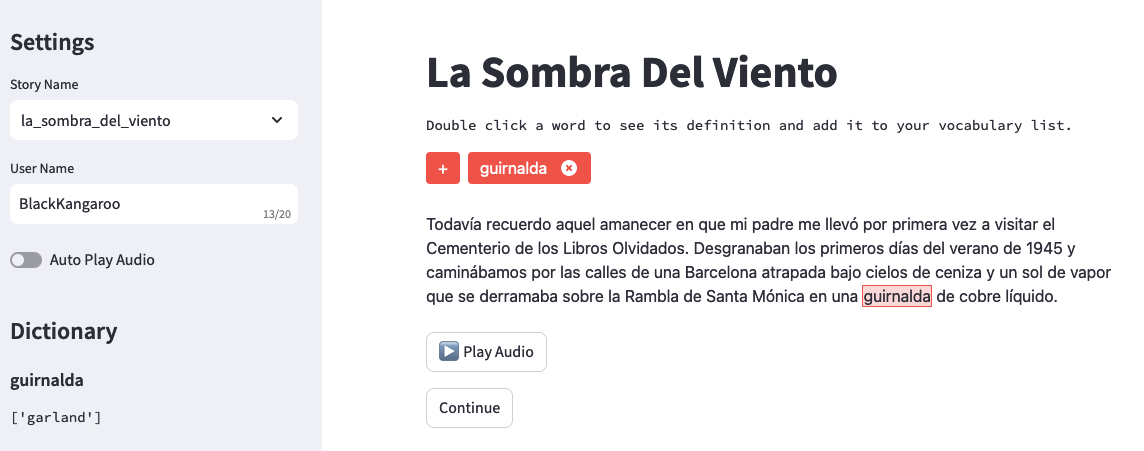
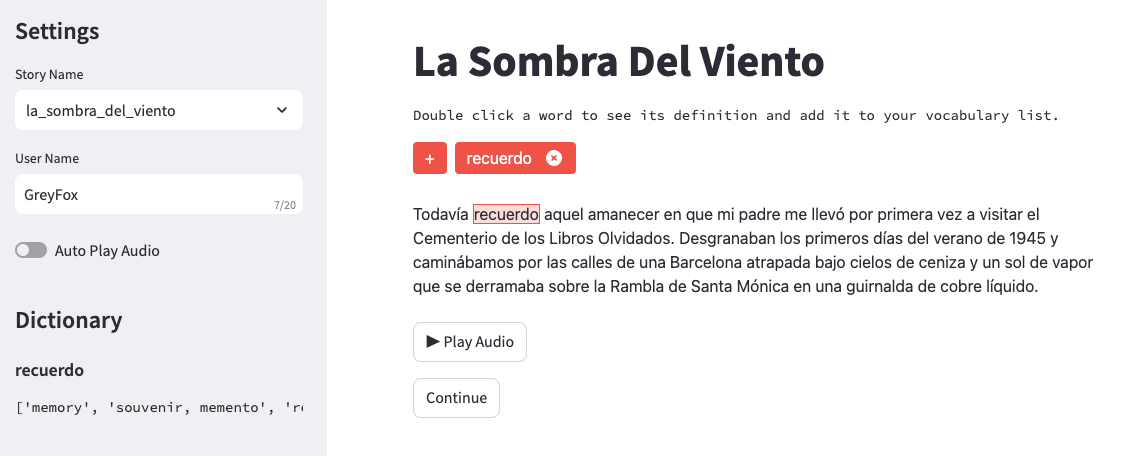
copy updates

diff --git a/ui_components.py b/ui_components.py
@@ -16,7 +16,6 @@ def define_user_info():
 
 def show_title():
     st.title(convert_to_title(st.session_state.story_name))
-    st.text("Double click a word to see its definition and add it to your vocabulary list.")
 
 def show_annotated_passage(text : str):
     """Displays a passage of text with words that can be clicked on to get definitions.
@@ -59,7 +58,14 @@ def show_settings():
         define_user_info()
         auto_play = st.toggle("Auto Play Audio", value=False)
         st.session_state.auto_play = auto_play
-
+        st.subheader("Instructions")
+        st.caption("Currently only works for Spanish and English. If you want to see how the app works in English, change the story to Alice in Wonderland above.")
+        st.caption("Drag your cursor over a word to see its definition on the left.")
+        st.caption("As you look up unknown words, the application builds a model of your vocabulary. Subsequent passages of text will be rewritten to cater to your current language level with unknown words added in to cement them in your long-term memory.")
+        st.caption("Please be patient! The app is still in development and may be slow to load.")
+        st.caption("The red plus (+) button does not do anything.")
+        st.caption("After looking up a word, it will appear in a red box above the text. Please click the 'x' to make that box disappear before looking up another word–this will make the dictionary run much faster.")
+        
 def show_dictionary():
     with st.sidebar:
         st.title("Dictionary")
